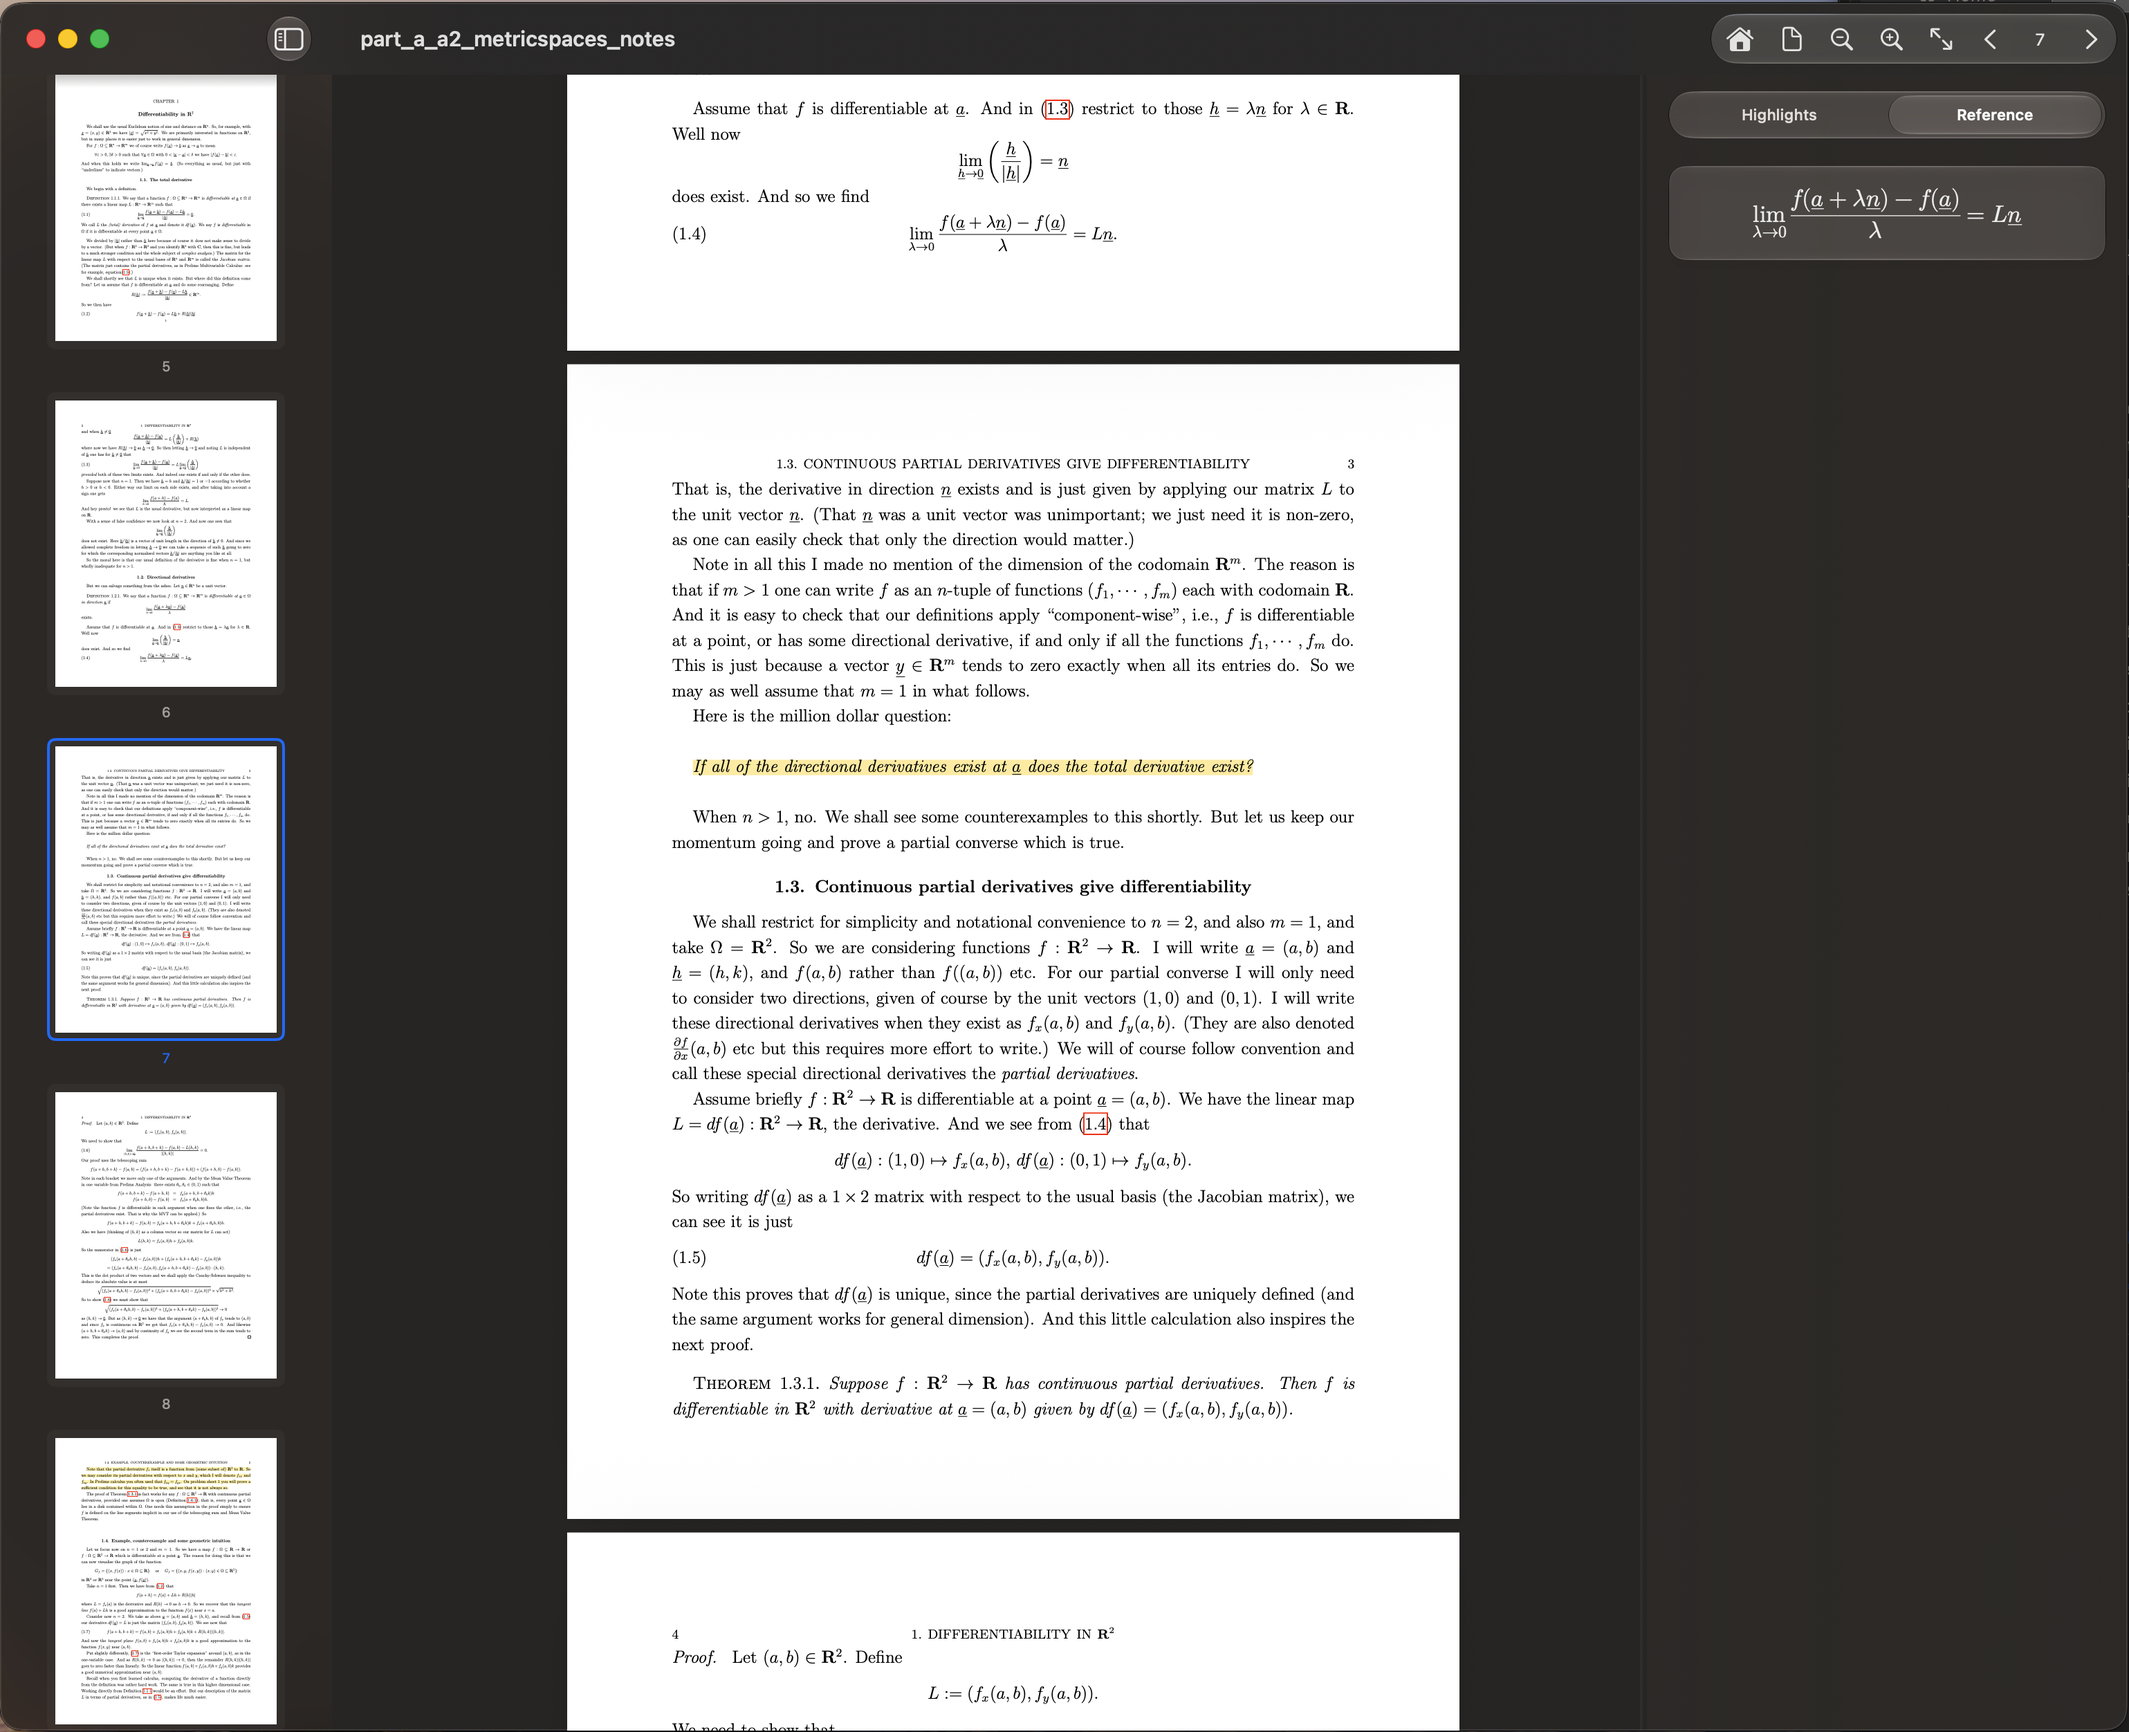
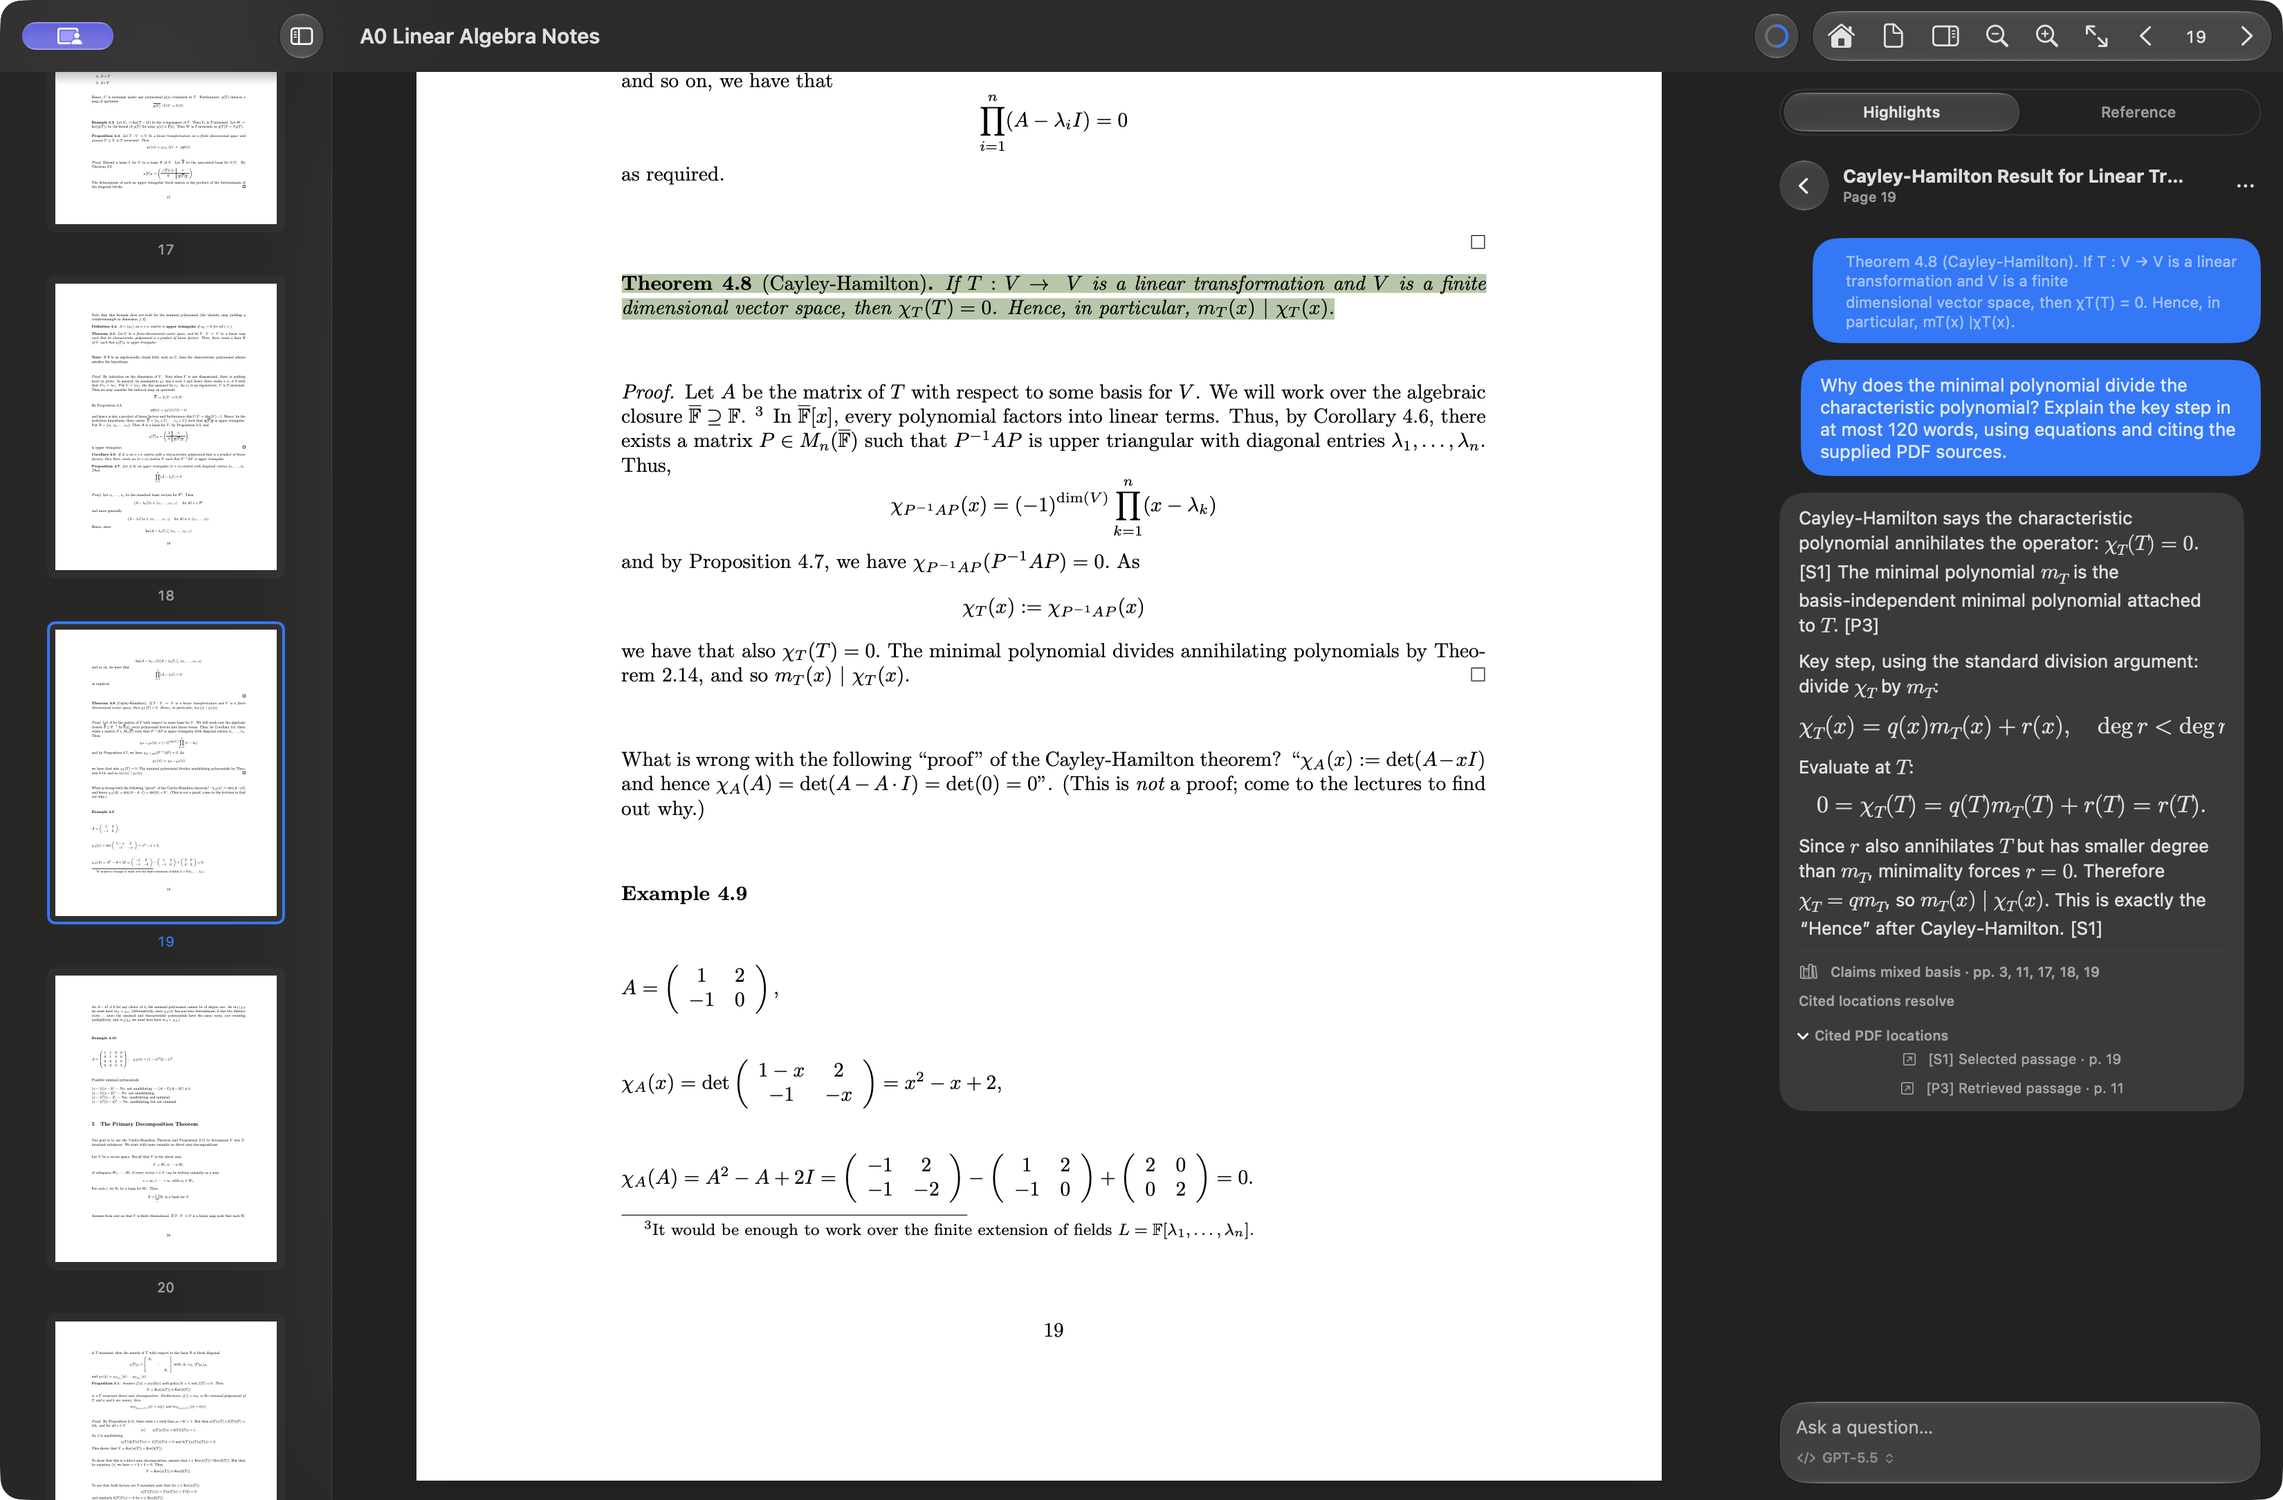
Refresh website screenshot from current Cauchy app

Changed region(s): [[0.0, 0.0, 0.7485, 1.0], [0.7485, 0.0, 1.0, 1.0], [0.4366, 0.1236, 0.499, 0.1545]]

diff --git a/website/src/app/page.tsx b/website/src/app/page.tsx
@@ -68,12 +68,8 @@ export default function Home() {
           {/* Hero Image / App Mockup Area */}
           <figure className="w-full max-w-[1200px]">
             <div className="bg-card rounded-3xl overflow-hidden relative">
-            <Image src="/app-screenshot.png" width={3078} height={2504} className="w-full h-auto" alt="Cauchy reading a mathematics PDF with thumbnails and a reference panel" priority quality={100} />
+              <Image src="/app-screenshot.png" width={3300} height={2168} className="w-full h-auto" alt="Cauchy showing a highlighted Cayley–Hamilton theorem and a conversation with answer evidence and PDF source links" priority quality={100} />
             </div>
-            <figcaption className="text-[14px] text-secondary mt-4">
-              Reading workspace from an earlier build. Current reference previews also
-              show source evidence and model provenance.
-            </figcaption>
           </figure>
         </div>
       </section>

diff --git a/website/src/app/layout.tsx b/website/src/app/layout.tsx
@@ -46,13 +46,13 @@ export const metadata: Metadata = {
     siteName: "Cauchy",
     title: "Cauchy — a PDF reader that talks back",
     description: DESCRIPTION,
-    images: [{ url: "/app-screenshot.png", width: 3078, height: 2504, alt: "Cauchy reading a mathematics paper" }],
+    images: [{ url: "/app-screenshot.png", width: 3300, height: 2168, alt: "Cauchy showing a highlighted Cayley–Hamilton theorem and a conversation with answer evidence and PDF source links" }],
   },
   twitter: {
     card: "summary_large_image",
     title: "Cauchy — a PDF reader that talks back",
     description: DESCRIPTION,
-    images: ["/app-screenshot.png"],
+    images: [{ url: "/app-screenshot.png", alt: "Cauchy showing a highlighted Cayley–Hamilton theorem and a conversation with answer evidence and PDF source links" }],
   },
 };
 
